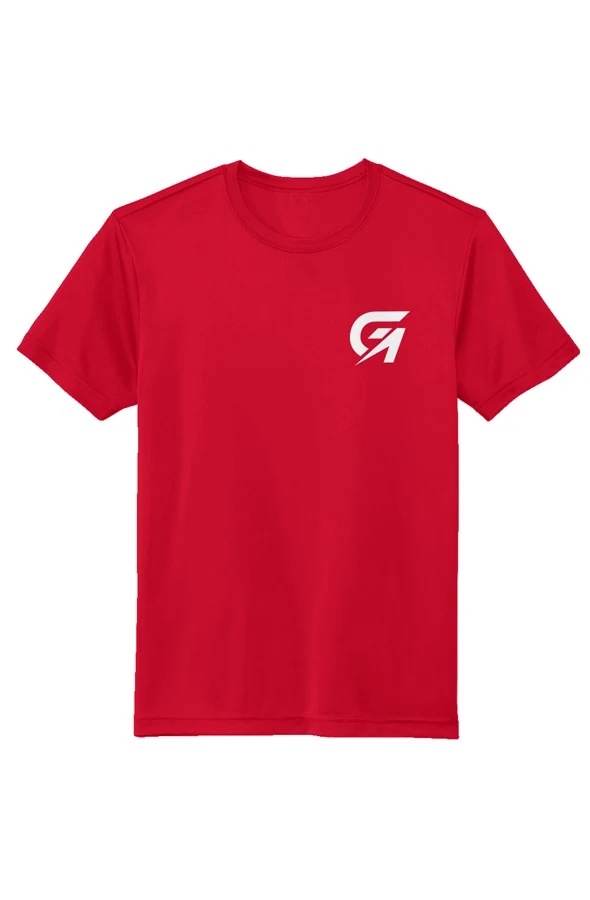
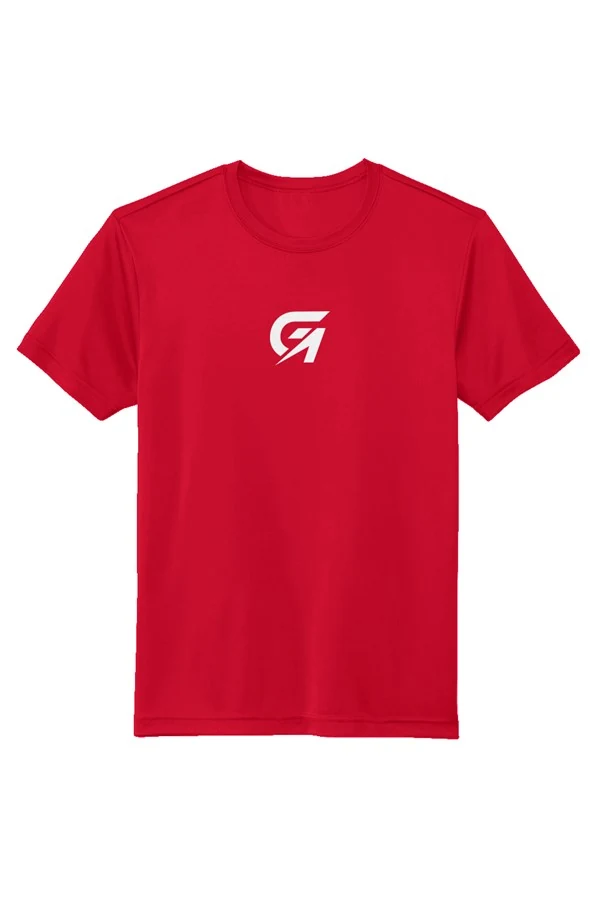
Centre the GA on the Black and True Red GA Minimal Tees
Owner: True Royal and White already print centred; fix the other two.
Black and True Red now map to the centred Apliiq designs 6206620 and
6206681 (GA 3.00 x 2.70 in on centre front, top 3.00 in below the
collar seam, same back) instead of the left-chest 6206215 and 6206277,
with their front images from the new renders. Copy and alt text say
the GA is centred on the chest.

Changed region(s): [[0.4576, 0.3422, 0.7017, 0.4044]]

diff --git a/src/lib/products.ts b/src/lib/products.ts
@@ -2961,7 +2961,7 @@ export const products: Product[] = [
     slug: "goal-athletics-ga-minimal-tee",
     blank: "ST720",
     description:
-      "Lightweight performance tee. GA monogram on the left chest, stacked GOAL ATHLETICS lockup across the upper back.",
+      "Lightweight performance tee. GA monogram centred on the chest, stacked GOAL ATHLETICS lockup across the upper back.",
     priceCents: 3800,
     compareAtPriceCents: null,
     color: "Black",
@@ -2973,7 +2973,7 @@ export const products: Product[] = [
     images: [
       {
         src: "/products/goal-ga-minimal-tee-black-front.webp",
-        alt: "GOAL Athletics GA Minimal Tee in black, front view with the white and red GA monogram on the left chest",
+        alt: "GOAL Athletics GA Minimal Tee in black, front view with the white and red GA monogram centred on the chest",
         caption: "Concept render. Not a photograph of a manufactured sample.",
       },
       {
@@ -2991,7 +2991,7 @@ export const products: Product[] = [
         images: [
           {
             src: "/products/goal-ga-minimal-tee-black-front.webp",
-            alt: "GOAL Athletics GA Minimal Tee in black, front view with the white and red GA monogram on the left chest",
+            alt: "GOAL Athletics GA Minimal Tee in black, front view with the white and red GA monogram centred on the chest",
             caption: "Concept render. Not a photograph of a manufactured sample.",
           },
           {
@@ -3009,7 +3009,7 @@ export const products: Product[] = [
         images: [
           {
             src: "/products/goal-ga-minimal-tee-true-royal-front.webp",
-            alt: "GOAL Athletics GA Minimal Tee in true royal, front view with the cream GA monogram on the left chest",
+            alt: "GOAL Athletics GA Minimal Tee in true royal, front view with the cream GA monogram centred on the chest",
             caption: "Concept render. Not a photograph of a manufactured sample.",
           },
           {
@@ -3027,7 +3027,7 @@ export const products: Product[] = [
         images: [
           {
             src: "/products/goal-ga-minimal-tee-white-black-red-front.webp",
-            alt: "GOAL Athletics GA Minimal Tee in white, front view with the black and red GA monogram on the left chest",
+            alt: "GOAL Athletics GA Minimal Tee in white, front view with the black and red GA monogram centred on the chest",
             caption: "Concept render. Not a photograph of a manufactured sample.",
           },
           {
@@ -3045,7 +3045,7 @@ export const products: Product[] = [
         images: [
           {
             src: "/products/goal-ga-minimal-tee-true-red-front.webp",
-            alt: "GOAL Athletics GA Minimal Tee in true red, front view with the white GA monogram on the left chest",
+            alt: "GOAL Athletics GA Minimal Tee in true red, front view with the white GA monogram centred on the chest",
             caption: "Concept render. Not a photograph of a manufactured sample.",
           },
           {

diff --git a/src/lib/fulfillment.ts b/src/lib/fulfillment.ts
@@ -381,14 +381,14 @@ const MAPPING: Record<string, Record<string, ApliiqVariant>> = {
   // == GOAL Athletics ST720 GA tees (owner handoff 2026-10-14) ==
   // Saved-design ids read from the Apliiq saved designs list on 2026-10-14.
   // Both products are hidden with no price, so this mapping opens nothing.
-  // GA Minimal Tee (GA 3.00in left chest + stacked back 6.00in)
+  // GA Minimal Tee (GA 3.00in centred on the chest + stacked back 6.00in). Black and True Red moved 2026-10-14 to the centred designs 6206620/6206681 (were left-chest 6206215/6206277); True Royal and White already print centred.
   "80000000-0000-4000-8000-000000000011": {
-    "Black": { apliiqProductId: 6206215, skus: { S: "APQ-6206215S6A1", M: "APQ-6206215S7A1", L: "APQ-6206215S8A1", XL: "APQ-6206215S1A1", XXL: "APQ-6206215S2A1" } },
+    "Black": { apliiqProductId: 6206620, skus: { S: "APQ-6206620S6A1", M: "APQ-6206620S7A1", L: "APQ-6206620S8A1", XL: "APQ-6206620S1A1", XXL: "APQ-6206620S2A1" } },
     "True Royal": { apliiqProductId: 6206254, skus: { S: "APQ-6206254S6A1", M: "APQ-6206254S7A1", L: "APQ-6206254S8A1", XL: "APQ-6206254S1A1", XXL: "APQ-6206254S2A1" } },
     "White · Black-Red": { apliiqProductId: 6206255, skus: { S: "APQ-6206255S6A1", M: "APQ-6206255S7A1", L: "APQ-6206255S8A1", XL: "APQ-6206255S1A1", XXL: "APQ-6206255S2A1" } },
     "White · Royal": { apliiqProductId: 6206257, skus: { S: "APQ-6206257S6A1", M: "APQ-6206257S7A1", L: "APQ-6206257S8A1", XL: "APQ-6206257S1A1", XXL: "APQ-6206257S2A1" } },
     "Silver": { apliiqProductId: 6206263, skus: { S: "APQ-6206263S6A1", M: "APQ-6206263S7A1", L: "APQ-6206263S8A1", XL: "APQ-6206263S1A1", XXL: "APQ-6206263S2A1" } },
-    "True Red": { apliiqProductId: 6206277, skus: { S: "APQ-6206277S6A1", M: "APQ-6206277S7A1", L: "APQ-6206277S8A1", XL: "APQ-6206277S1A1", XXL: "APQ-6206277S2A1" } },
+    "True Red": { apliiqProductId: 6206681, skus: { S: "APQ-6206681S6A1", M: "APQ-6206681S7A1", L: "APQ-6206681S8A1", XL: "APQ-6206681S1A1", XXL: "APQ-6206681S2A1" } },
   },
   // GA Big Tee (lockup 10.00in across the chest)
   "80000000-0000-4000-8000-000000000012": {
